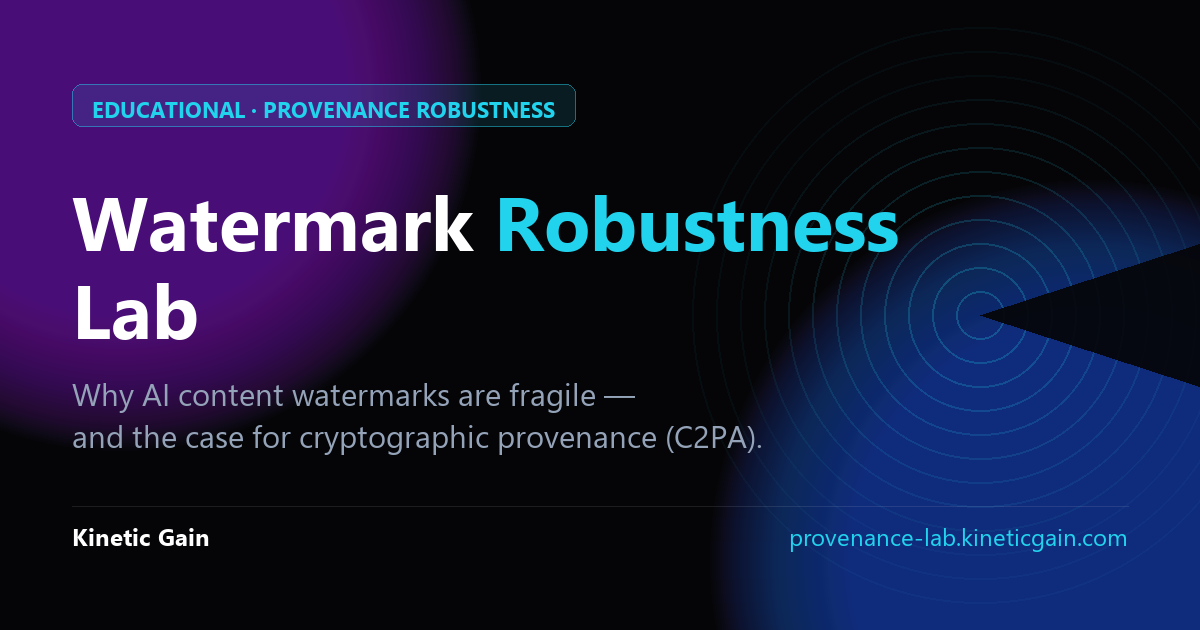
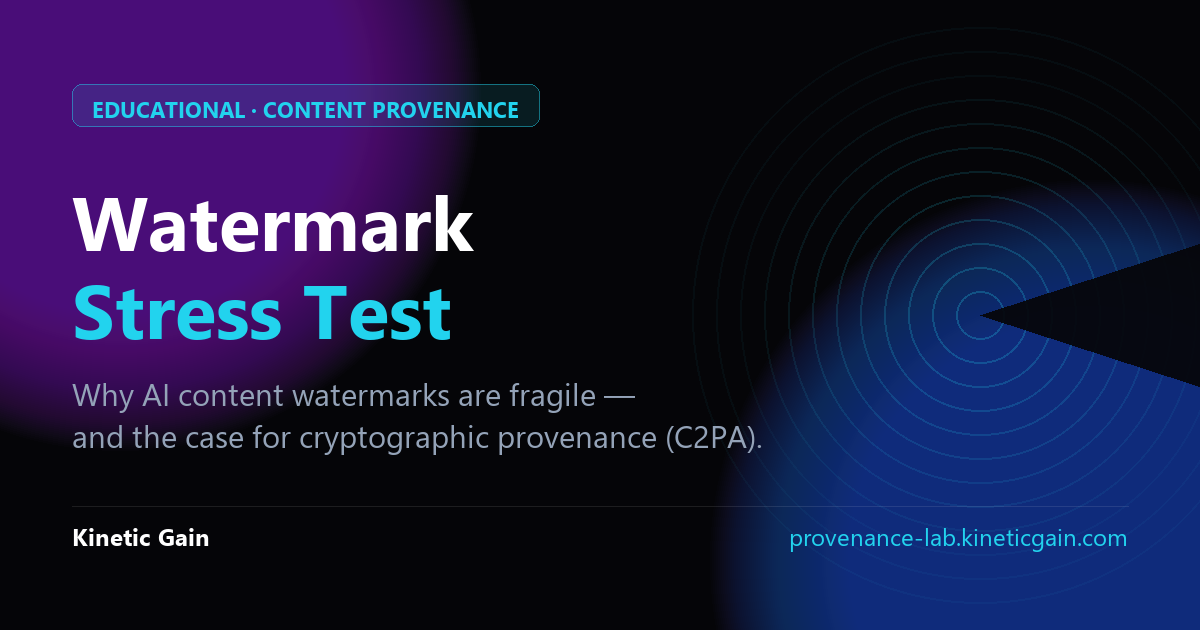
Rename to Watermark Stress Test + add WRT related-work note
Renames the project from 'Watermark Robustness Lab' to 'Watermark Stress Test'
across UI, metadata, OG image, README, and essay, to avoid name overlap with the
academic Watermark-Robustness-Toolbox (WRT). Adds a Related-work acknowledgment
distinguishing this (content-provenance watermarking) from WRT (DNN model-weight
watermarking). Repo renamed to watermark-stress-test.

Changed region(s): [[0.4008, 0.3016, 0.7708, 0.4222], [0.0617, 0.4524, 0.37, 0.5429], [0.2158, 0.1206, 0.4933, 0.2111]]

diff --git a/site/why-watermarks-break/index.html b/site/why-watermarks-break/index.html
@@ -60,7 +60,7 @@
   "@context": "https://schema.org",
   "@type": "BreadcrumbList",
   "itemListElement": [
-    { "@type": "ListItem", "position": 1, "name": "Watermark Robustness Lab", "item": "https://provenance-lab.kineticgain.com/" },
+    { "@type": "ListItem", "position": 1, "name": "Watermark Stress Test", "item": "https://provenance-lab.kineticgain.com/" },
     { "@type": "ListItem", "position": 2, "name": "Why watermarks break", "item": "https://provenance-lab.kineticgain.com/why-watermarks-break/" }
   ]
 }
@@ -119,7 +119,7 @@
 
 <header class="site">
   <div class="wrap">
-    <a class="brand" href="/"><span class="dot"></span> Watermark Robustness Lab</a>
+    <a class="brand" href="/"><span class="dot"></span> Watermark Stress Test</a>
     <nav class="nav">
       <a href="/">Open the lab</a>
       <a href="https://kineticgain.com/" target="_blank" rel="noreferrer">Kinetic Gain</a>
@@ -150,7 +150,7 @@
   <p>This piece explains the mechanism in plain terms, shows the four edit classes that attenuate it, and argues for the layer that doesn't share the weakness — cryptographically signed provenance, standardised as <a href="https://c2pa.org/" target="_blank" rel="noreferrer">C2PA</a> and shipped to users as <a href="https://contentcredentials.org/" target="_blank" rel="noreferrer">Content Credentials</a>.</p>
 
   <div class="callout scope">
-    <strong>Scope note.</strong> The companion <a href="/">Watermark Robustness Lab</a> demonstrates these effects on a <em>synthetic</em> watermark it injects itself, entirely in your browser. It does not detect or remove SynthID or any production system. The goal is to teach the robustness lesson, not to defeat anyone's watermark.
+    <strong>Scope note.</strong> The companion <a href="/">Watermark Stress Test</a> demonstrates these effects on a <em>synthetic</em> watermark it injects itself, entirely in your browser. It does not detect or remove SynthID or any production system. The goal is to teach the robustness lesson, not to defeat anyone's watermark.
   </div>
 
   <h2>How content watermarking works</h2>
@@ -207,7 +207,7 @@
   <p>Reading that watermarks are fragile is one thing; watching a detection gauge fall to zero under a notch filter you control is another. The lab lets you inject a synthetic carrier, see it in the FFT, and attenuate it with real signal-processing filters — plus a text sandbox that resets a Z-score with synonym and character edits.</p>
 
   <div class="cta">
-    <a class="btn primary" href="/">Open the Watermark Robustness Lab →</a>
+    <a class="btn primary" href="/">Open the Watermark Stress Test →</a>
     <a class="btn ghost" href="https://kineticgain.com/trust/" target="_blank" rel="noreferrer">Kinetic Gain Trust Pack</a>
   </div>
 
@@ -221,6 +221,9 @@
     <p>No. It operates only on a synthetic watermark it injects itself, in your browser. The robustness point is general: in-band watermarks can be attenuated by ordinary editing, which is why provenance shouldn't depend on them alone.</p>
   </div>
 
+  <h2>Related work</h2>
+  <p>This project concerns <strong>content provenance</strong> watermarking — marks embedded in generated media (the SynthID family). It is independent of, and not derived from, the <a href="https://github.com/dnn-security/Watermark-Robustness-Toolbox" target="_blank" rel="noreferrer">Watermark-Robustness-Toolbox (WRT)</a> by Lukas, Jiang, Li &amp; Kerschbaum, which benchmarks the robustness of <em>DNN model-weight</em> watermarks — used to prove ownership of trained neural networks, a distinct subfield. See their IEEE S&amp;P 2022 paper, <em>"SoK: How Robust is Deep Neural Network Image Classification Watermarking?"</em> Different domain, different stack, no shared code.</p>
+
 </article>
 </div>
 
@@ -231,7 +234,7 @@
       <a href="/">The lab</a>
       <a href="https://contentcredentials.org/" target="_blank" rel="noreferrer">C2PA</a>
       <a href="https://www.linkedin.com/in/mirzacausevic" target="_blank" rel="noreferrer">LinkedIn</a>
-      <a href="https://github.com/mizcausevic-dev/watermark-robustness-lab" target="_blank" rel="noreferrer">Source</a>
+      <a href="https://github.com/mizcausevic-dev/watermark-stress-test" target="_blank" rel="noreferrer">Source</a>
     </div>
   </div>
 </footer>

diff --git a/index.html b/index.html
@@ -5,7 +5,7 @@
     <meta name="viewport" content="width=device-width, initial-scale=1.0" />
     <meta name="theme-color" content="#050508" />
 
-    <title>Watermark Robustness Lab — Why AI Content Watermarks Are Fragile | Kinetic Gain</title>
+    <title>Watermark Stress Test — Why AI Content Watermarks Are Fragile | Kinetic Gain</title>
     <meta
       name="description"
       content="An interactive teaching lab showing why pixel- and token-level AI watermarks (the steganographic approach used by systems like SynthID) are fragile against ordinary image and text edits — and why durable content provenance needs cryptographic Content Credentials (C2PA). Educational simulation; does not process real SynthID."
@@ -17,7 +17,7 @@
     <!-- Open Graph -->
     <meta property="og:type" content="website" />
     <meta property="og:site_name" content="Kinetic Gain" />
-    <meta property="og:title" content="Watermark Robustness Lab — Why AI Content Watermarks Are Fragile" />
+    <meta property="og:title" content="Watermark Stress Test — Why AI Content Watermarks Are Fragile" />
     <meta
       property="og:description"
       content="Interactive lab: see how routine edits disrupt pixel & token watermarks, and why durable provenance needs cryptographic Content Credentials (C2PA). Educational simulation."
@@ -27,7 +27,7 @@
 
     <!-- Twitter -->
     <meta name="twitter:card" content="summary_large_image" />
-    <meta name="twitter:title" content="Watermark Robustness Lab — Why AI Content Watermarks Are Fragile" />
+    <meta name="twitter:title" content="Watermark Stress Test — Why AI Content Watermarks Are Fragile" />
     <meta
       name="twitter:description"
       content="Interactive lab on watermark fragility and the case for cryptographic content provenance (C2PA). Educational simulation."
@@ -39,7 +39,7 @@
     {
       "@context": "https://schema.org",
       "@type": "LearningResource",
-      "name": "Watermark Robustness Lab",
+      "name": "Watermark Stress Test",
       "description": "Interactive educational simulation demonstrating why pixel- and token-level AI content watermarks are fragile against routine edits, and why cryptographic content provenance (C2PA / Content Credentials) is the durable alternative.",
       "url": "https://provenance-lab.kineticgain.com/",
       "learningResourceType": "Interactive simulation",
@@ -77,7 +77,7 @@
           "name": "Does this tool remove or bypass Google SynthID?",
           "acceptedAnswer": {
             "@type": "Answer",
-            "text": "No. The Watermark Robustness Lab is an educational simulation. It injects a synthetic, self-authored watermark and analyzes that signal in your browser. It does not detect, contain, or remove Google SynthID or any production watermark, and it never uploads your content."
+            "text": "No. The Watermark Stress Test is an educational simulation. It injects a synthetic, self-authored watermark and analyzes that signal in your browser. It does not detect, contain, or remove Google SynthID or any production watermark, and it never uploads your content."
           }
         },
         {

diff --git a/src/App.tsx b/src/App.tsx
@@ -30,7 +30,7 @@ const KG_URL = 'https://kineticgain.com/';
 const TRUST_URL = 'https://kineticgain.com/trust/';
 const C2PA_URL = 'https://contentcredentials.org/';
 const LINKEDIN_URL = 'https://www.linkedin.com/in/mirzacausevic';
-const REPO_URL = 'https://github.com/mizcausevic-dev/watermark-robustness-lab';
+const REPO_URL = 'https://github.com/mizcausevic-dev/watermark-stress-test';
 const ARTICLE_URL = '/why-watermarks-break/';
 
 export default function App() {
@@ -56,14 +56,14 @@ export default function App() {
             <div>
               <div className="flex items-center gap-2">
                 <h1 className="text-sm sm:text-base font-bold tracking-tight text-white/90">
-                  Watermark <span className="text-cyan-400">Robustness Lab</span>
+                  Watermark <span className="text-cyan-400">Stress Test</span>
                 </h1>
                 <span className="text-[9px] font-extrabold px-1.5 py-0.5 rounded bg-cyan-500/10 border border-cyan-500/30 text-cyan-400 font-mono uppercase tracking-widest hidden sm:inline-block">
                   Educational
                 </span>
               </div>
               <div className="text-[10px] text-white/40 font-mono leading-none mt-0.5 hidden sm:block">
-                Provenance robustness · Kinetic Gain
+                Content provenance · Kinetic Gain
               </div>
             </div>
           </div>
@@ -326,7 +326,7 @@ export default function App() {
             <div className="flex flex-col gap-1.5 max-w-md">
               <div className="flex items-center gap-2 text-white/80 text-xs font-bold">
                 <ShieldCheck className="w-4 h-4 text-cyan-400" />
-                Watermark Robustness Lab
+                Watermark Stress Test
               </div>
               <p className="text-[11px] text-white/45 leading-relaxed">
                 Built by <span className="text-white/70 font-semibold">Miz Causevic</span> — Boston Enterprise Technologist.

diff --git a/src/components/ImageSandbox.tsx b/src/components/ImageSandbox.tsx
@@ -3730,7 +3730,7 @@ export default function ImageSandbox() {
                 <div className="flex items-center gap-2">
                   <Table className="w-5 h-5 text-indigo-400" />
                   <h3 className="text-lg font-bold uppercase tracking-wider text-white">
-                    Batch Robustness Lab
+                    Batch Stress Test
                   </h3>
                 </div>
                 <p className="text-xs text-white/50 leading-relaxed">

diff --git a/scripts/make_og.py b/scripts/make_og.py
@@ -1,4 +1,4 @@
-"""Generate the Open Graph cover (1200x630) for the Watermark Robustness Lab.
+"""Generate the Open Graph cover (1200x630) for the Watermark Stress Test.
 
 Brand-consistent with the app: near-black background, cyan->blue accent,
 a faint concentric-ring 'carrier' motif (the thing the lab is about), and a
@@ -53,7 +53,7 @@ def font(sz, bold=True):
 PAD = 72
 
 # --- eyebrow / badge ---
-badge = "EDUCATIONAL · PROVENANCE ROBUSTNESS"
+badge = "EDUCATIONAL · CONTENT PROVENANCE"
 bf = font(22)
 d.rounded_rectangle([PAD, 84, PAD + d.textlength(badge, font=bf) + 40, 84 + 42],
                     radius=10, fill=(34, 211, 238, 28), outline=(34, 211, 238, 120), width=1)
@@ -62,8 +62,7 @@ d.text((PAD + 20, 94), badge, font=bf, fill=CYAN)
 # --- title (two lines) ---
 tf = font(76)
 d.text((PAD, 168), "Watermark", font=tf, fill=WHITE)
-d.text((PAD + d.textlength("Watermark ", font=tf), 168), "Robustness", font=tf, fill=CYAN)
-d.text((PAD, 256), "Lab", font=tf, fill=WHITE)
+d.text((PAD, 256), "Stress Test", font=tf, fill=CYAN)
 
 # --- subtitle ---
 sf = font(31, bold=False)

diff --git a/README.md b/README.md
@@ -1,4 +1,4 @@
-# Watermark Robustness Lab
+# Watermark Stress Test
 
 **An interactive teaching lab on why hidden AI-content watermarks are fragile — and why durable provenance needs cryptographic Content Credentials (C2PA).**
 
@@ -61,6 +61,16 @@ This is an AI-safety / provenance-education artifact. It demonstrates robustness
 self-authored synthetic signal to argue for stronger provenance. It is **not** a tool for removing
 real-world watermarks or laundering AI-generated content. See the in-app *Responsible Use & Scope*
 briefing for the full statement.
+
+## Related work
+
+This project concerns **content provenance** watermarking — marks embedded in generated media
+(the SynthID family). It is independent of, and not derived from, the
+[Watermark-Robustness-Toolbox (WRT)](https://github.com/dnn-security/Watermark-Robustness-Toolbox)
+by Lukas, Jiang, Li & Kerschbaum, which benchmarks the robustness of **DNN model-weight** watermarks
+(used to prove ownership of trained neural networks) — a distinct subfield, in Python/PyTorch under
+GPL-3.0. See their IEEE S&P 2022 paper, *"SoK: How Robust is Deep Neural Network Image Classification
+Watermarking?"*. Different domain, different stack, no shared code.
 
 ## License
 